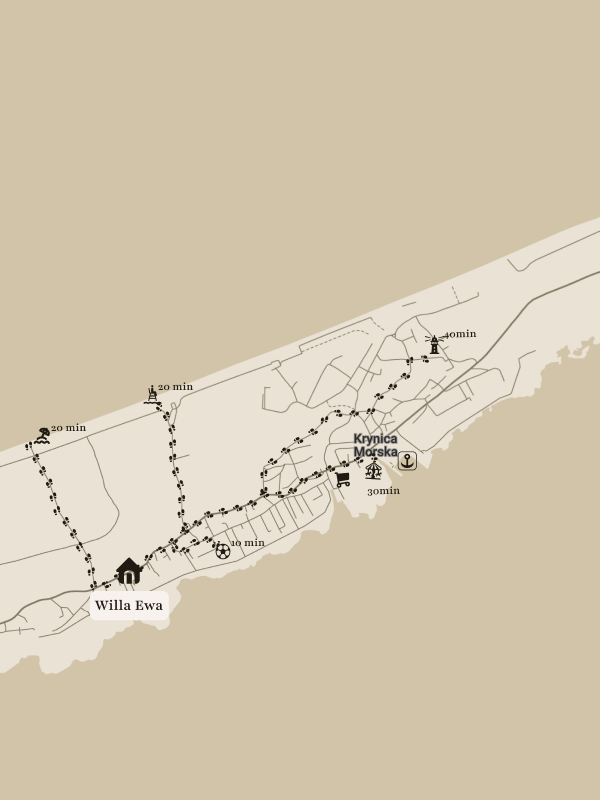
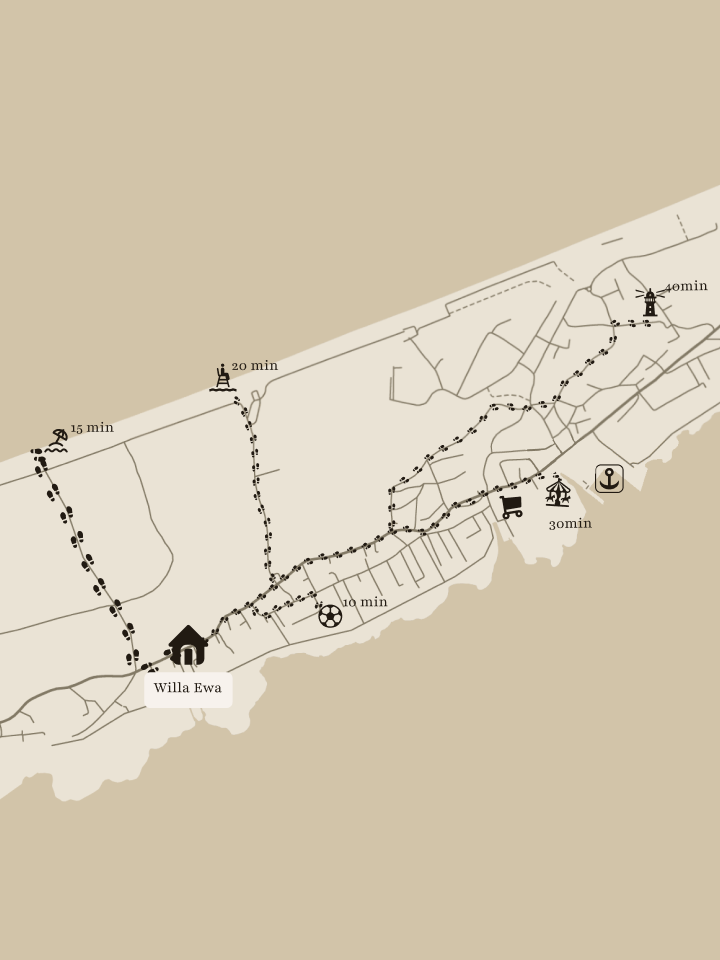
Style fixes and map change

Changed region(s): [[0.0, 0.1875, 1.0, 0.8438], [0.21, 0.5625, 0.24, 0.625]]

diff --git a/astro/src/sanity.types.ts b/astro/src/sanity.types.ts
@@ -15,6 +15,23 @@
 export declare const internalGroqTypeReferenceTo: unique symbol;
 
 // Source: schema.json
+export type Review = {
+  _id: string;
+  _type: "review";
+  _createdAt: string;
+  _updatedAt: string;
+  _rev: string;
+  author?: string;
+  quote?: string;
+  rating?: number;
+  source?: string;
+  status?: string;
+  googleReviewId?: string;
+  email?: string;
+  time?: number;
+  createdAt?: number;
+};
+
 export type SanityImageAssetReference = {
   _ref: string;
   _type: "reference";
@@ -268,6 +285,7 @@ export type Geopoint = {
 };
 
 export type AllSanitySchemaTypes =
+  | Review
   | SanityImageAssetReference
   | HeroImages
   | SanityImageCrop
@@ -288,19 +306,21 @@ export type AllSanitySchemaTypes =
 
 // Source: ../../astro/src/lib/sanity.ts
 // Variable: heroImagesQuery
-// Query: *[_type == "heroImages"][0]{    images[]{ _key, alt, image, ... }  }
+// Query: *[_type == "heroImages"][0]{    images[]{      _key,      alt,      image,      "lqip": image.asset->metadata.lqip,      "width": image.asset->metadata.dimensions.width,      "height": image.asset->metadata.dimensions.height,    }  }
 export type HeroImagesQueryResult = {
   images: Array<{
     _key: string;
-    alt?: string;
-    image?: {
+    alt: string | null;
+    image: {
       asset?: SanityImageAssetReference;
       media?: unknown;
       hotspot?: SanityImageHotspot;
       crop?: SanityImageCrop;
       _type: "image";
-    };
-    _type: "heroImage";
+    } | null;
+    lqip: string | null;
+    width: number | null;
+    height: number | null;
   }> | null;
 } | null;
 
@@ -430,15 +450,31 @@ export type SiteSettingsQueryResult = {
   address?: string;
 } | null;
 
+// Source: ../../astro/src/lib/sanity.ts
+// Variable: publicReviewsQuery
+// Query: {    "reviews": *[_type == "review" && status == "accepted"] | order(time desc) {      "id": _id,      author,      quote,      rating,      source,      time,    },    "googleRatings": *[_type == "review" && status == "accepted" && source == "google"].rating  }
+export type PublicReviewsQueryResult = {
+  reviews: Array<{
+    id: string;
+    author: string | null;
+    quote: string | null;
+    rating: number | null;
+    source: string | null;
+    time: number | null;
+  }>;
+  googleRatings: Array<number | null>;
+};
+
 // Query TypeMap
 import "@sanity/client";
 declare module "@sanity/client" {
   interface SanityQueries {
-    '\n  *[_type == "heroImages"][0]{\n    images[]{ _key, alt, image, ... }\n  }\n': HeroImagesQueryResult;
+    '\n  *[_type == "heroImages"][0]{\n    images[]{\n      _key,\n      alt,\n      image,\n      "lqip": image.asset->metadata.lqip,\n      "width": image.asset->metadata.dimensions.width,\n      "height": image.asset->metadata.dimensions.height,\n    }\n  }\n': HeroImagesQueryResult;
     '\n  *[_type == "gallery"][0]{\n    images[]{\n      _key,\n      image,\n      alt,\n      caption,\n      captionUrl,\n      "lqip": image.asset->metadata.lqip,\n      "width": image.asset->metadata.dimensions.width,\n      "height": image.asset->metadata.dimensions.height,\n    }\n  }\n': GalleryQueryResult;
     '\n  *[_type == "roomsSlider"][0]{\n    images[]{\n      _key,\n      image,\n      alt,\n      "lqip": image.asset->metadata.lqip,\n      "width": image.asset->metadata.dimensions.width,\n      "height": image.asset->metadata.dimensions.height,\n    }\n  }\n': RoomsSliderQueryResult;
     '\n  *[_type == "article"] | order(publishedAt desc){\n    _id,\n    title,\n    slug,\n    coverImage,\n    excerpt,\n    publishedAt,\n  }\n': ArticlesQueryResult;
     '\n  *[_type == "article" && slug.current == $slug][0]{\n    _id,\n    title,\n    slug,\n    coverImage,\n    excerpt,\n    publishedAt,\n    body,\n  }\n': ArticleBySlugQueryResult;
     '\n  *[_type == "siteSettings"][0]\n': SiteSettingsQueryResult;
+    '\n  {\n    "reviews": *[_type == "review" && status == "accepted"] | order(time desc) {\n      "id": _id,\n      author,\n      quote,\n      rating,\n      source,\n      time,\n    },\n    "googleRatings": *[_type == "review" && status == "accepted" && source == "google"].rating\n  }\n': PublicReviewsQueryResult;
   }
 }

diff --git a/astro/src/styles/style.css b/astro/src/styles/style.css
@@ -104,7 +104,7 @@ footer {
 
 .fade-in {
   opacity: 0;
-  transform: translateY(50px) scale(0.96);
+  transform: scale(0.96);
   filter: blur(8px);
 
   transition:
@@ -115,9 +115,9 @@ footer {
 
 .fade-in.visible {
   opacity: 1;
-  transform: translateY(0) scale(1);
+  transform: scale(1);
   filter: blur(0);
-  transition-delay: 100ms;
+  transition-delay: 180ms;
 }
 
 .slide-from-left {
@@ -135,12 +135,12 @@ footer {
   opacity: 1;
   transform: translateX(0) scale(1);
   filter: blur(0);
-  transition-delay: 100ms;
+  transition-delay: 180ms;
 }
 
 .slide-from-right {
   opacity: 0;
-  transform: translateX(50px) scale(0.96);
+  transform: translateX(30px) scale(0.96);
   filter: blur(8px);
 
   transition:
@@ -153,7 +153,7 @@ footer {
   opacity: 1;
   transform: translateX(0) scale(1);
   filter: blur(0);
-  transition-delay: 100ms;
+  transition-delay: 180ms;
 }
 
 .stagger > * {

diff --git a/astro/src/styles/variables.css b/astro/src/styles/variables.css
@@ -5,7 +5,7 @@
   --c-bg-accent: hsl(30, 40%, 92%);
 
   --c-font-primary: hsl(30, 17%, 25%);
-  --c-font-secondary: hsl(32, 19%, 43%);
+  --c-font-secondary: hsl(32, 19%, 33%);
   --c-font-accent: hsl(30, 50%, 65%);
   --c-font-light: hsl(30, 32%, 93%);
   --c-star: hsl(42, 60%, 58%);

diff --git a/astro/src/styles/reset.css b/astro/src/styles/reset.css
@@ -73,8 +73,12 @@ a {
   text-decoration: none;
 }
 
+html,
+body {
+  overflow-x: clip;
+}
+
 html {
   scroll-behavior: smooth;
   font-size: 100%;
-  overflow-x: clip;
 }
